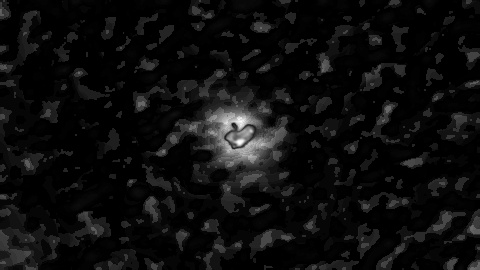
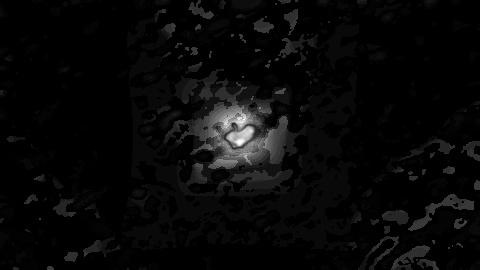
Progress in color filtering

diff --git a/OpenCV Saliency Detection Testing/saliency+canny-edge_batch_process.py b/OpenCV Saliency Detection Testing/saliency+canny-edge_batch_process.py
@@ -7,21 +7,26 @@ import matplotlib.pyplot as plt
 import os
 import commons
 
-## Set variables
-# Image downsample scaling
-scale = 1
-# Standard image resolution
+### Set variables
+
+## Standard image resolutions
+# Downsize resolution
 hi = 270
 wi = 480
-downsize = True
+# Concat output resolution
 con_hi = 1080
 con_wi = 1920
 
+## Preprocessing variables
 blur_str = 0.01
-preblur = False
+color_filter_lower_thresh = 10
 
-color_filtering = True
-denoise = False
+## Preprocessing options
+preblurring     = 0
+downsize        = 1
+color_filtering = 1
+denoise         = 0
+bilat_filtering = 1
 
 # Data directory paths
 in_dataset  = os.path.join(os.getcwd(), 'Input_Dataset')
@@ -40,10 +45,9 @@ for n in range(0, len(onlyfiles)):
 print("Processing images in folder ", in_dataset, "(", len(onlyfiles), " objects )\n")
 if downsize:
     print("Images will be downsized to ", hi, "x",wi)
-if preblur:
+if preblurring:
     print("Images will be pre-blurred with a blur radius of ", blur_str, "% of height.")
-if downsize or preblur:
-    print("\n")
+print("\n")
 
 ## Main Loop
 # For each image in list, perform saliency stuff
@@ -54,34 +58,48 @@ for i in range(0,len(images)):
     frame = images[i]
 
     ## Image preprocessing
-    print('Processing image "',onlyfiles[i],'", ',i+1,'/',len(images),'. Shape: ', frame.shape)
-    if downsize:    # Resize images to standard resolution
-        frame = cv2.resize(frame,(wi, hi))
-    if preblur:     # Blur input image
-        frame = cv2.blur(frame, (blur_rad, blur_rad))
     blur_rad = int (frame.shape[0]*blur_str)
-    if denoise:     # Denoise input image
-        frame = cv2.fastNlMeansDenoisingColored(frame,None,5,5,3,5)
+
+    print('Processing image "',onlyfiles[i],'", ',i+1,'/',len(images),'. Shape: ', frame.shape)
+    preprocessed_frame = frame.copy()
+
+    if downsize:        # Resize images to standard resolution
+        frame = cv2.resize(frame,(wi, hi))
+        preprocessed_frame = frame.copy()
+    if preblurring:     # Blur input image
+        preprocessed_frame = cv2.blur(preprocessed_frame, (blur_rad, blur_rad))
+    if denoise:         # Denoise input image
+        preprocessed_frame = cv2.fastNlMeansDenoisingColored(preprocessed_frame,None,5,5,3,5)
+    if bilat_filtering: # Bilateral Filter on input image
+        preprocessed_frame = cv2.bilateralFilter(preprocessed_frame, 13, 69,69)
 
     # Color filtering
-    col_filtd = frame.copy()
+    col_filtd = preprocessed_frame.copy()
     if color_filtering:
-        """
-        col_filtd = col_filtd/255.0 #Convert to floating-point / normalize
+        #Convert to floating-point / normalize values
+        col_filtd = col_filtd/255.0
+
+        # Normalize colors
         for c in range(0,3):
             col_filtd[:,:,c] = col_filtd[:,:,c] / (1.0/255.0 + col_filtd[:,:,0] + col_filtd[:,:,1] + col_filtd[:,:,2]) # Normalize colors
-        avg_color_per_row = np.average(col_filtd, axis=0)
-        avg_color = (np.average(avg_color_per_row, axis=0)*255).astype(int)
-        print(avg_color)
         
-        col_filtd = (col_filtd*255).astype(np.ubyte)    # Image-readable format
-        """
-        col_filtd = cv2.bilateralFilter(col_filtd, 13, 69,69)
+        # Compute channel-wise averages
+        avg_color_per_row = np.average(col_filtd, axis=0)
+        avg_color = (np.average(avg_color_per_row, axis=0))#*255).astype(int)
+        print("Average normalized color values, BGR: ",avg_color)
 
+        # For each channel, compute pixel-wise distance from average
+        color_deviancy = np.zeros(col_filtd.shape)
+        for c in range(0,3):
+            color_deviancy[:,:,c] = np.absolute(col_filtd[:,:,c] - avg_color[c])
+        
+        # 
+        color_deviancy = (color_deviancy*255).astype(np.ubyte)
+        col_filtd = (col_filtd*255).astype(np.ubyte)    # Convert result to image-readable format
 
     # Perform saliency
     saliency = cv2.saliency.StaticSaliencyFineGrained_create()
-    (success, saliencyMap) = saliency.computeSaliency(col_filtd)
+    (success, saliencyMap) = saliency.computeSaliency(color_deviancy)
     saliencyMap = (saliencyMap*255).astype("uint8")
 
     # Blur saliency map
@@ -89,8 +107,6 @@ for i in range(0,len(images)):
     processed_sali_map = saliencyMap.copy()
     processed_sali_map = cv2.blur(processed_sali_map,[sali_blur_rad, sali_blur_rad])
 
-    
-  
     # Canny Edge Detector
     low_threshold = 100
     ratio = 3
@@ -104,8 +120,9 @@ for i in range(0,len(images)):
     
     ## Image post-processing
     # Image Merging
-    hcon1 = cv2.hconcat([frame, col_filtd, cv2.cvtColor(saliencyMap, cv2.COLOR_GRAY2BGR)])
-    hcon2 = cv2.hconcat([cv2.cvtColor(processed_sali_map, cv2.COLOR_GRAY2BGR), dst, threshed_detections])
+    print(frame.dtype, preprocessed_frame.dtype, color_deviancy.dtype)
+    hcon1 = cv2.hconcat([frame, preprocessed_frame, color_deviancy])
+    hcon2 = cv2.hconcat([cv2.cvtColor(saliencyMap, cv2.COLOR_GRAY2BGR), dst, threshed_detections])
     displ = cv2.vconcat([hcon1, hcon2])
 
     # Downsize concat image
